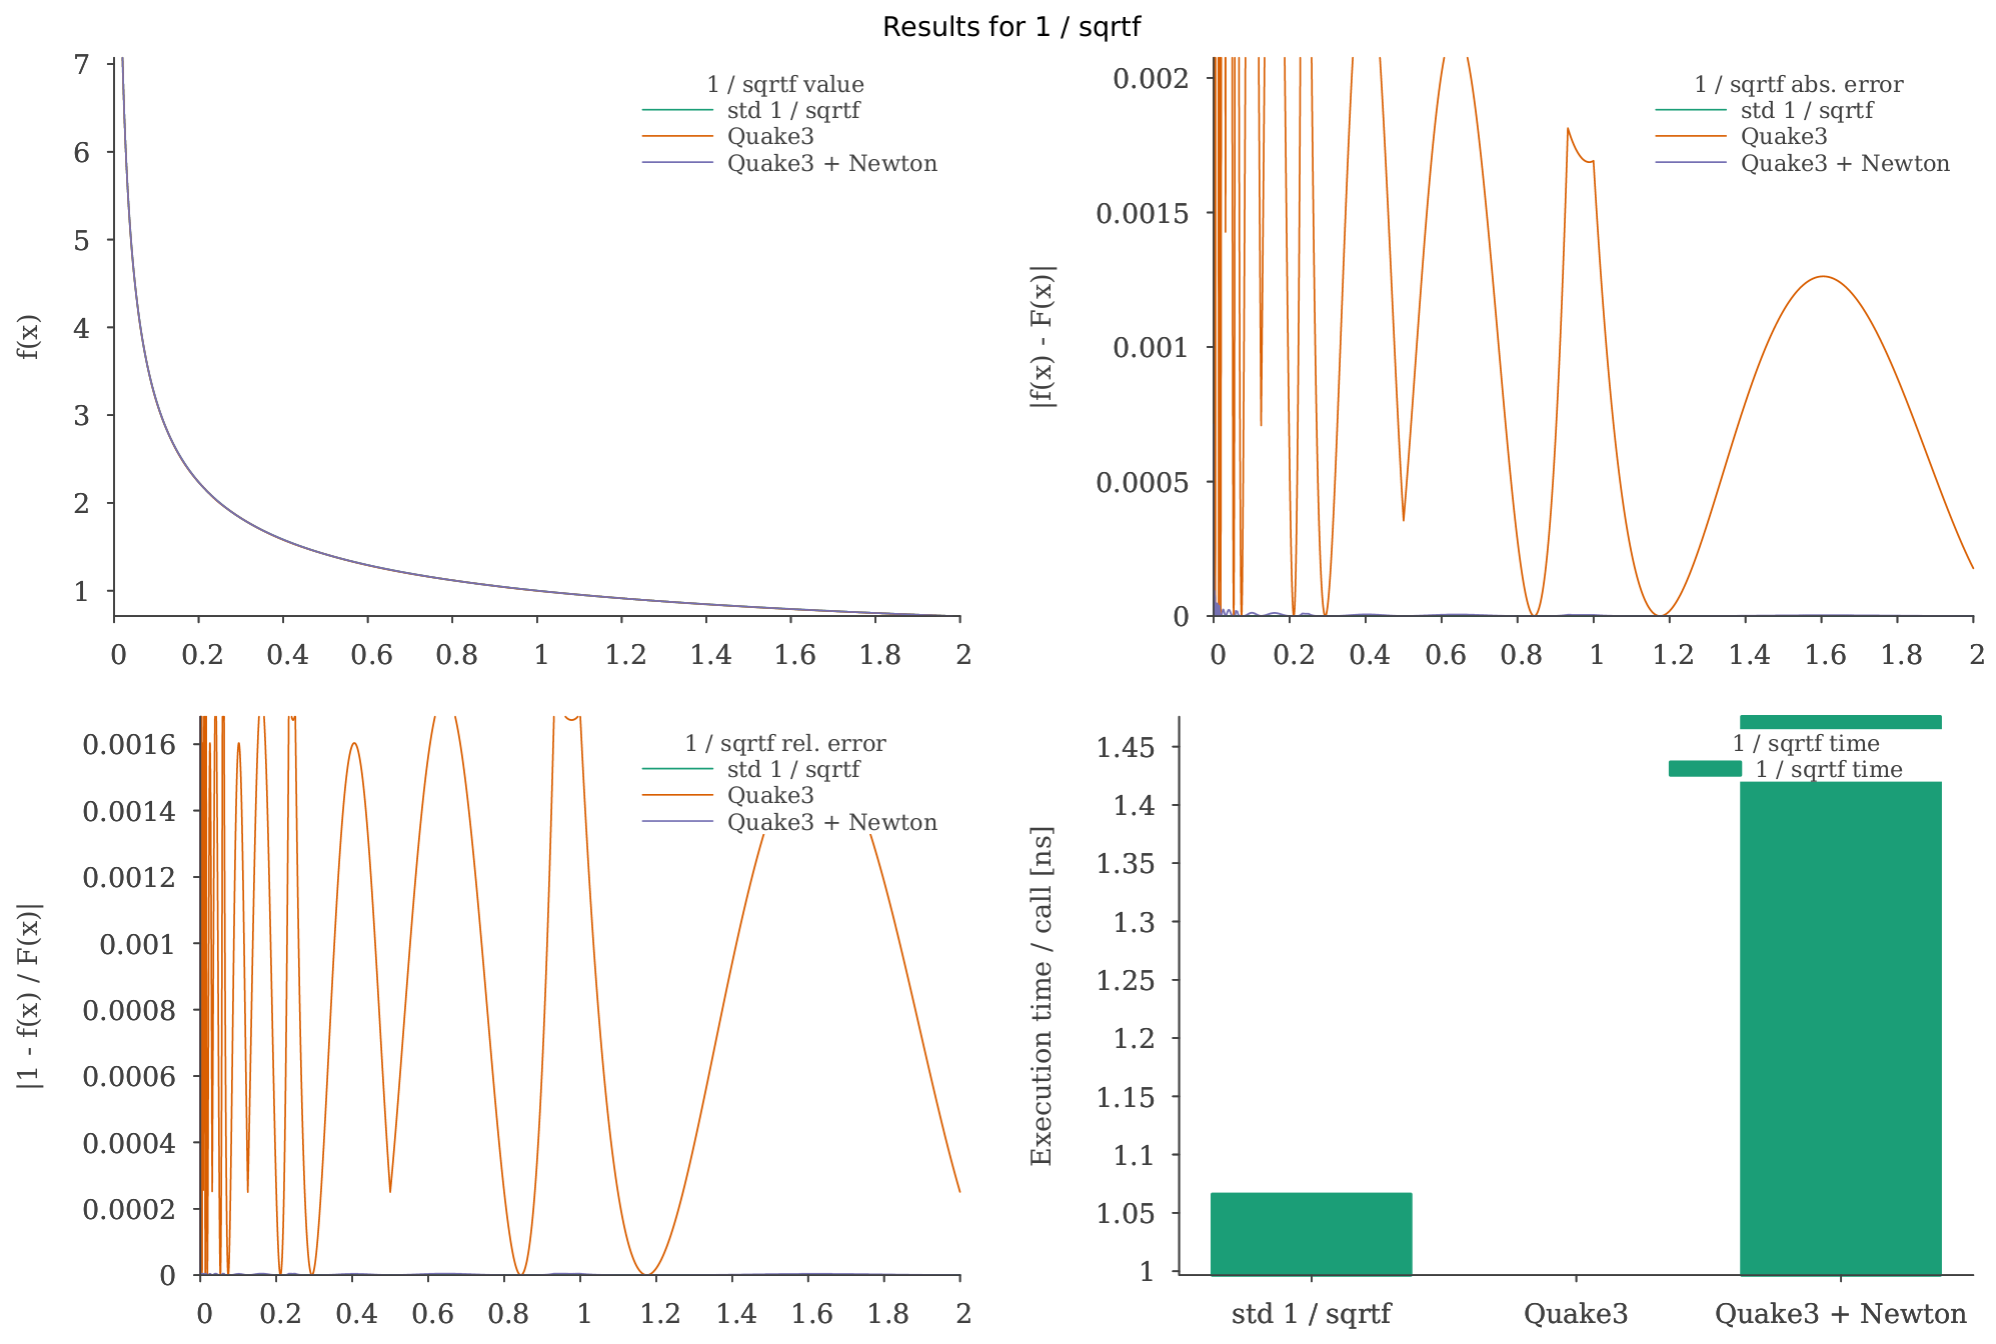
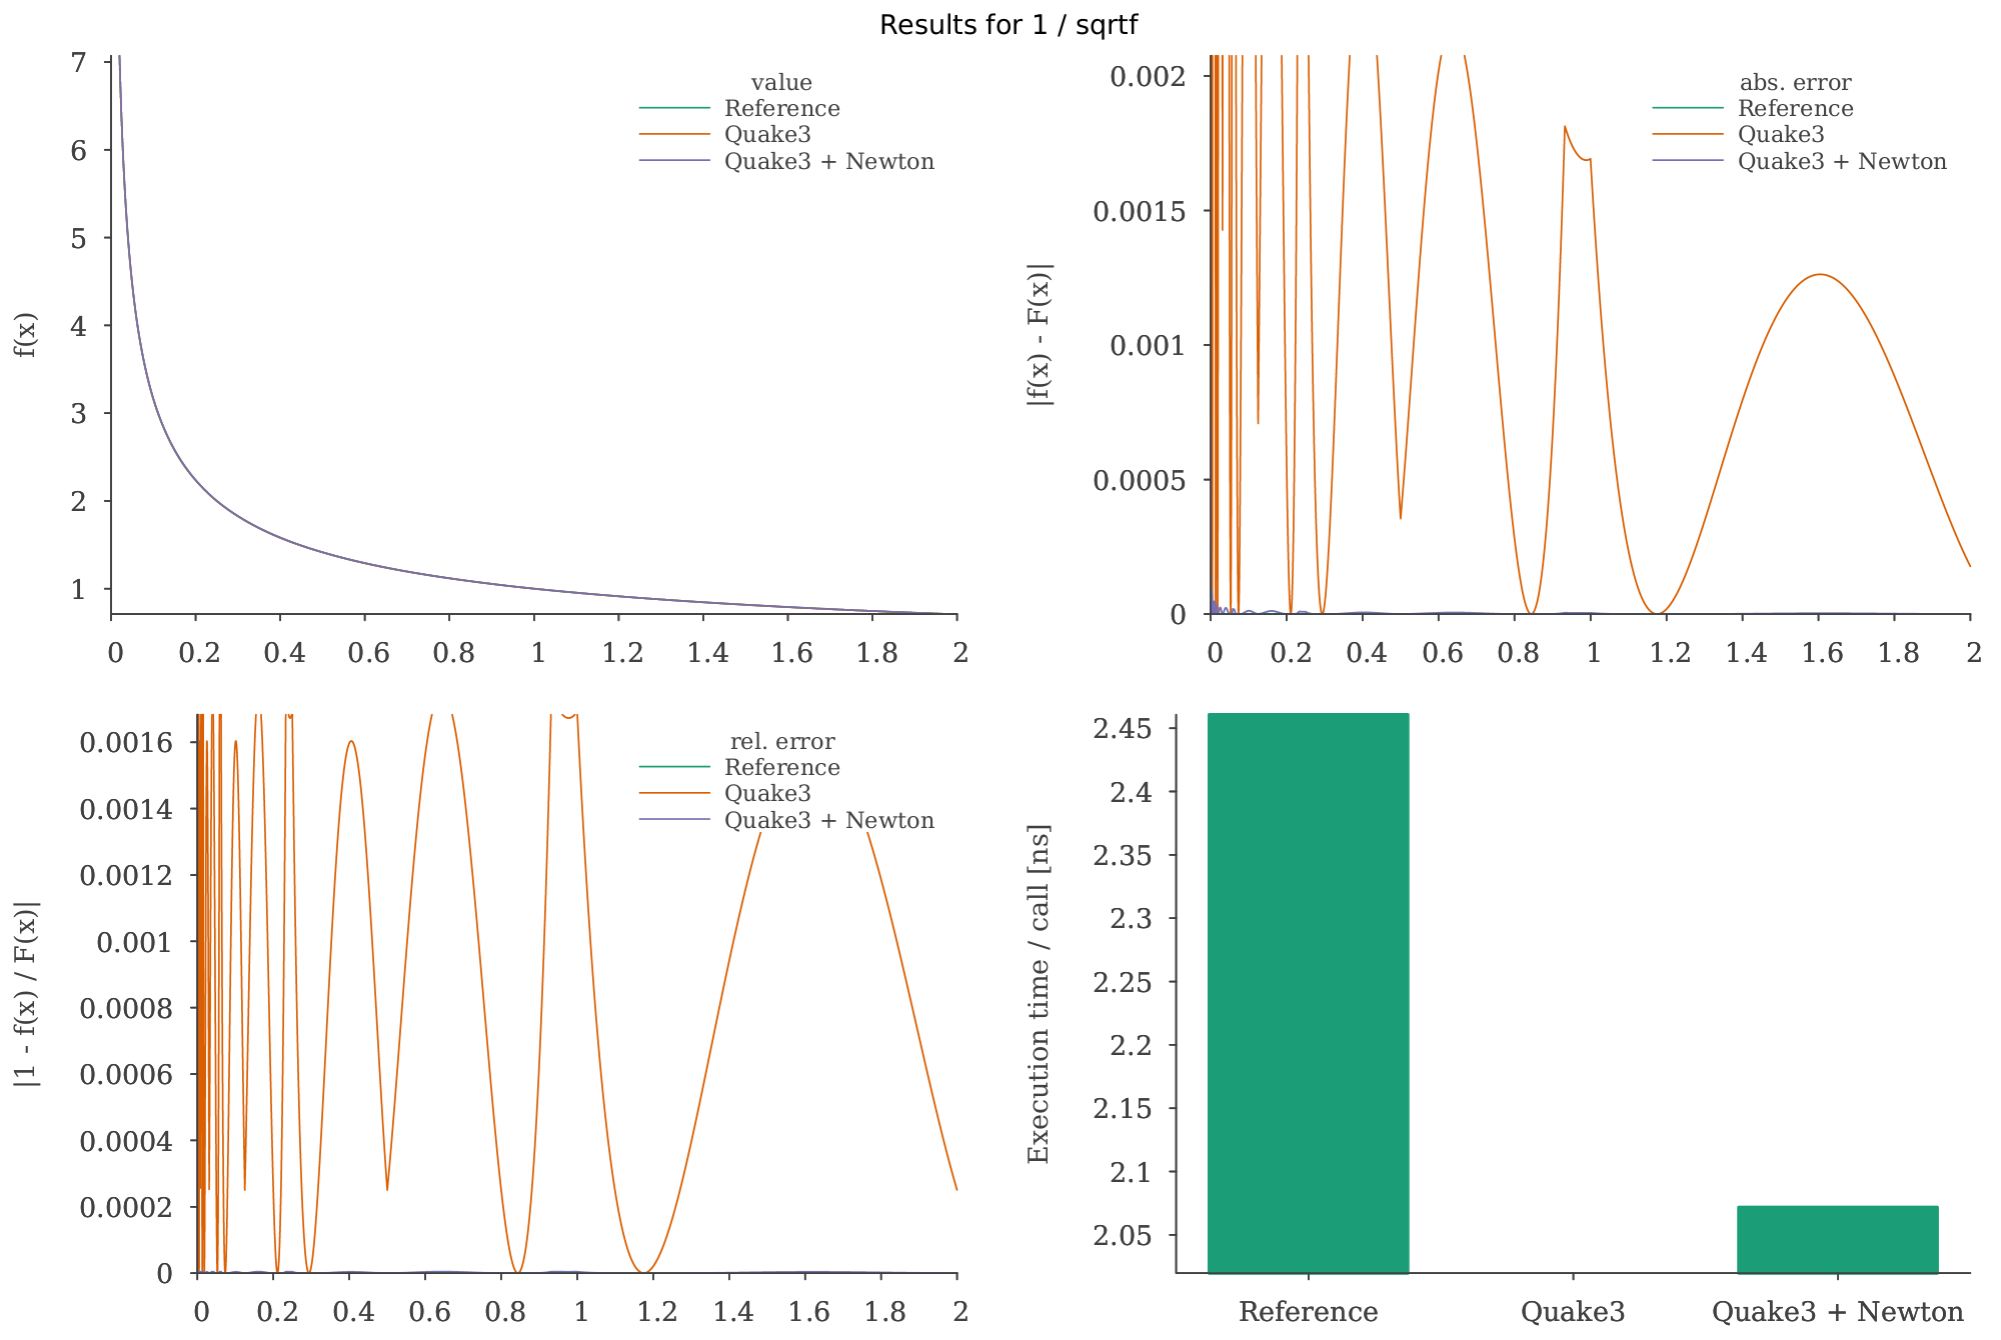
Less clutter in plots

diff --git a/plot.h b/plot.h
@@ -97,13 +97,13 @@ void plot(const std::vector<Result<T>>& rs)
     mp.title("Results for " + fr.suiteName);
     mp.layout(2, 2);
     std::function<const std::vector<T>&(const Result<T>&)> valueFunc = [](const Result<T>& r) -> const std::vector<T>& { return r.values; };
-    plotLines(mp, rs, valueFunc, (T)98, fr.suiteName + " value", "f(x)");
+    plotLines(mp, rs, valueFunc, (T)98, "value", "f(x)");
     std::function<const std::vector<T>&(const Result<T>&)> absFunc = [](const Result<T>& r) -> const std::vector<T>& { return r.absoluteErrors.values; };
-    plotLines(mp, rs, absFunc, (T)80, fr.suiteName + " abs. error", "|f(x) - F(x)|");
+    plotLines(mp, rs, absFunc, (T)80, "abs. error", "|f(x) - F(x)|");
     std::function<const std::vector<T>&(const Result<T>&)> relFunc = [](const Result<T>& r) -> const std::vector<T>& { return r.relativeErrors.values; };
-    plotLines(mp, rs, relFunc, (T)80, fr.suiteName + " rel. error", "|1 - f(x) / F(x)|");
+    plotLines(mp, rs, relFunc, (T)80, "rel. error", "|1 - f(x) / F(x)|");
     std::function<T(const Result<T>&)> callNsFunc = [](const Result<T>& r) { return float(r.callNs - r.overheadNs) / (float)r.samplesInRange; };
-    plotBars(mp, rs, callNsFunc, fr.suiteName + " time", "Execution time / call [ns]");
+    plotBars(mp, rs, callNsFunc, "", "Execution time / call [ns]");
     mp.show();
     mp.save("result.pdf");
 }

diff --git a/README.md b/README.md
@@ -1,6 +1,6 @@
 # C++ testbed for (transcendental) function approximations
 
-Tests some transcendental function approximations, e.g. for sqrt() for speed and precision. Note that **these are approximations only with varying degrees of precision and speed.** I consciously left out tricks like using assembler code or SSE / NEON. These should be obvious and can be used in conjuction with some of the the methods here. Also a good compiler makes those optimizations for you anyway. Note that you should **compile with optimizations on** (```-O2 -ffast-math```), otherwise your results will be off!
+Tests some transcendental function approximations, e.g. for sqrt() for speed and precision. Note that **these are approximations only with varying degrees of precision and speed and all have their own strengths and weaknesses or may have certain range requirements**. I consciously left out tricks like using assembler code or SSE / NEON. These should be obvious and can be used in conjuction with some of the the methods here. Also a good compiler makes some of those optimizations for you anyway. Note that you should **compile with optimizations on** (```-O2 -ffast-math```), otherwise your results will be off!
 
 ## License
 
